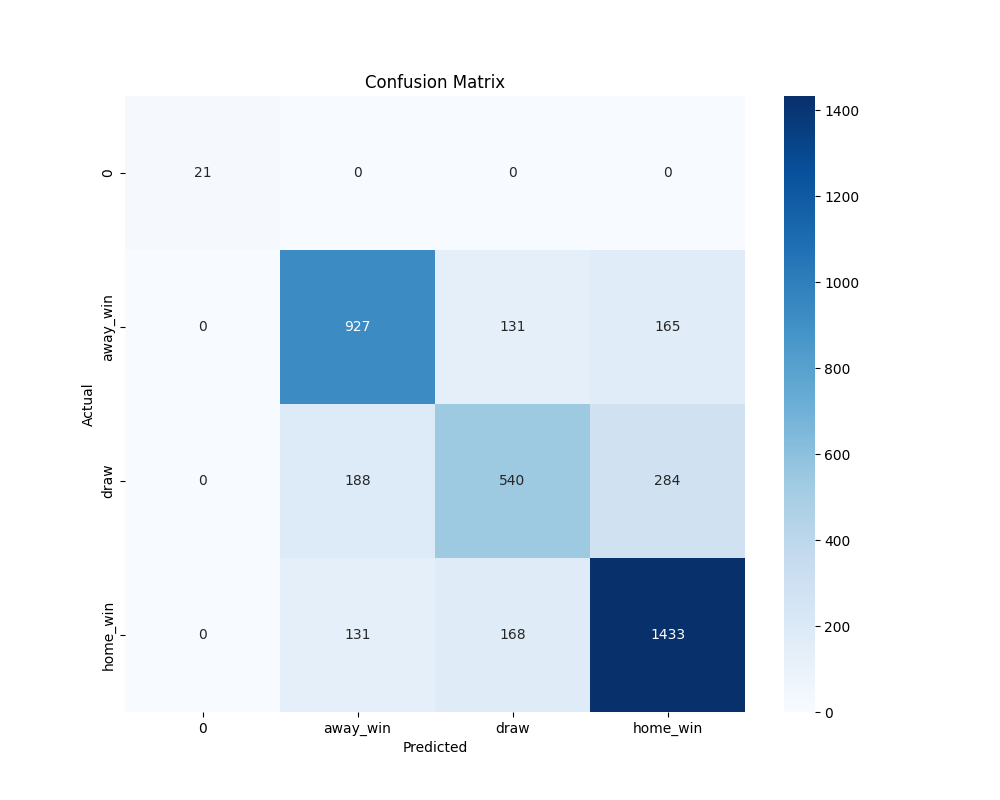
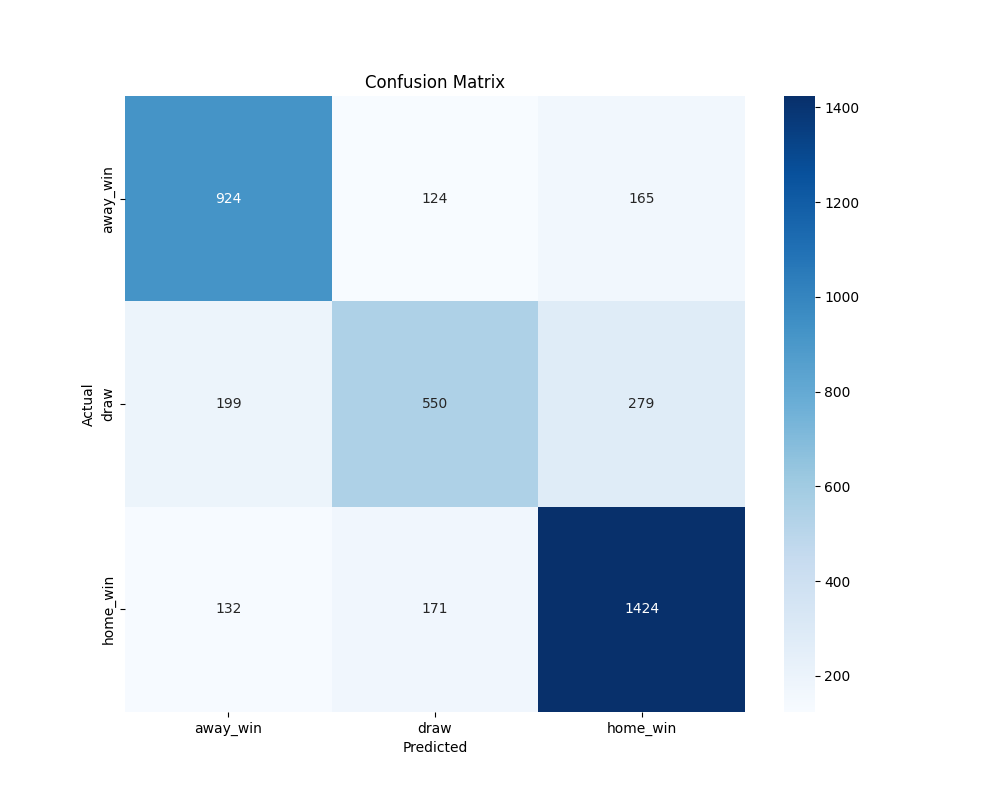
retrain for score prediction

diff --git a/train_enhance.py b/train_enhance.py
@@ -62,19 +62,26 @@ def engineer_features(df):
 
 df = engineer_features(df)
 
+# Handle NaN values in the target variables
+df = df.dropna(subset=['home_goals', 'away_goals'])
+
 # Prepare features and target
 features = ['home_team_strength', 'away_team_strength', 'home_team_defense', 'away_team_defense',
             'home_xG', 'away_xG', 'xG_difference', 'home_form', 'away_form',
             'h2h_home_win_rate', 'h2h_away_win_rate', 'h2h_draw_rate']
 X = df[features]
-y = df['result']
+y_result = df['result']
+y_home_goals = df['home_goals']
+y_away_goals = df['away_goals']
 
-# Encode the target variable
+# Encode the target variable for result prediction
 le = LabelEncoder()
-y_encoded = le.fit_transform(y)
+y_result_encoded = le.fit_transform(y_result)
 
 # Split the data
-X_train, X_test, y_train, y_test = train_test_split(X, y_encoded, test_size=0.2, random_state=42)
+X_train, X_test, y_result_train, y_result_test = train_test_split(X, y_result_encoded, test_size=0.2, random_state=42)
+_, _, y_home_goals_train, y_home_goals_test = train_test_split(X, y_home_goals, test_size=0.2, random_state=42)
+_, _, y_away_goals_train, y_away_goals_test = train_test_split(X, y_away_goals, test_size=0.2, random_state=42)
 
 # Create a pipeline with imputer, scaler, feature selection, and model
 def create_pipeline(model):
@@ -128,28 +135,28 @@ best_models = {}
 for name, (pipeline, params) in models.items():
     print(f"Tuning {name}...")
     random_search = RandomizedSearchCV(pipeline, params, n_iter=50, cv=5, n_jobs=-1, verbose=1, random_state=42)
-    random_search.fit(X_train, y_train)
+    random_search.fit(X_train, y_result_train)
     best_models[name] = random_search.best_estimator_
     print(f"Best parameters for {name}: {random_search.best_params_}")
     print(f"Best score for {name}: {random_search.best_score_}")
 
-# Create ensemble model
+# Create ensemble model for result prediction
 ensemble = VotingClassifier(
     estimators=[(name, model) for name, model in best_models.items()],
     voting='soft'
 )
 
-# Train and evaluate the ensemble model
-ensemble.fit(X_train, y_train)
-y_pred = ensemble.predict(X_test)
-accuracy = accuracy_score(y_test, y_pred)
+# Train and evaluate the ensemble model for result prediction
+ensemble.fit(X_train, y_result_train)
+y_result_pred = ensemble.predict(X_test)
+result_accuracy = accuracy_score(y_result_test, y_result_pred)
 print("\nEnsemble Model Results:")
-print(f"Accuracy: {accuracy:.4f}")
+print(f"Accuracy: {result_accuracy:.4f}")
 print("Classification Report:")
-print(classification_report(y_test, y_pred, target_names=le.classes_))
+print(classification_report(y_result_test, y_result_pred, target_names=le.classes_))
 
 # Confusion Matrix
-cm = confusion_matrix(y_test, y_pred)
+cm = confusion_matrix(y_result_test, y_result_pred)
 plt.figure(figsize=(10, 8))
 sns.heatmap(cm, annot=True, fmt='d', cmap='Blues', xticklabels=le.classes_, yticklabels=le.classes_)
 plt.title('Confusion Matrix')
@@ -158,78 +165,27 @@ plt.ylabel('Actual')
 plt.savefig('confusion_matrix.png')
 plt.close()
 
-# Save the ensemble model and label encoder
+# Train models for score prediction
+score_models = {
+    'home_goals': RandomForestClassifier(n_estimators=100, random_state=42),
+    'away_goals': RandomForestClassifier(n_estimators=100, random_state=42)
+}
+
+score_models['home_goals'].fit(X_train, y_home_goals_train)
+score_models['away_goals'].fit(X_train, y_away_goals_train)
+
+# Evaluate score prediction models
+y_home_goals_pred = score_models['home_goals'].predict(X_test)
+y_away_goals_pred = score_models['away_goals'].predict(X_test)
+home_goals_mae = np.mean(np.abs(y_home_goals_test - y_home_goals_pred))
+away_goals_mae = np.mean(np.abs(y_away_goals_test - y_away_goals_pred))
+print(f"\nHome Goals Prediction MAE: {home_goals_mae:.4f}")
+print(f"Away Goals Prediction MAE: {away_goals_mae:.4f}")
+
+# Save the ensemble model, label encoder, and score models
 joblib.dump(ensemble, 'football_prediction_ensemble.joblib')
 joblib.dump(le, 'label_encoder.joblib')
+joblib.dump(score_models['home_goals'], 'home_goals_model.joblib')
+joblib.dump(score_models['away_goals'], 'away_goals_model.joblib')
 
-print("\nEnsemble model and label encoder saved.")
-
-# Optional: If you want to save individual models as well
-for name, model in best_models.items():
-    joblib.dump(model, f'football_prediction_{name.lower()}.joblib')
-    print(f"{name} model saved.")
-
-# Feature importance analysis
-rf_model = best_models['RandomForest']
-feature_selector = rf_model.named_steps['feature_selection']
-selected_feature_indices = feature_selector.get_support(indices=True)
-selected_features = [features[i] for i in selected_feature_indices]
-
-feature_importance = pd.DataFrame({
-    'feature': selected_features,
-    'importance': rf_model.named_steps['model'].feature_importances_
-}).sort_values('importance', ascending=False)
-
-print("\nFeature Importance:")
-print(feature_importance)
-
-# Plot feature importance
-plt.figure(figsize=(10, 6))
-feature_importance.plot(x='feature', y='importance', kind='bar')
-plt.title('Feature Importance')
-plt.xlabel('Features')
-plt.ylabel('Importance')
-plt.tight_layout()
-plt.savefig('feature_importance.png')
-plt.close()
-
-print("\nFeature importance plot saved as 'feature_importance.png'")
-
-# Learning curves
-from sklearn.model_selection import learning_curve
-
-def plot_learning_curve(estimator, title, X, y, ylim=None, cv=None,
-                        n_jobs=None, train_sizes=np.linspace(.1, 1.0, 5)):
-    plt.figure()
-    plt.title(title)
-    if ylim is not None:
-        plt.ylim(*ylim)
-    plt.xlabel("Training examples")
-    plt.ylabel("Score")
-    train_sizes, train_scores, test_scores = learning_curve(
-        estimator, X, y, cv=cv, n_jobs=n_jobs, train_sizes=train_sizes)
-    train_scores_mean = np.mean(train_scores, axis=1)
-    train_scores_std = np.std(train_scores, axis=1)
-    test_scores_mean = np.mean(test_scores, axis=1)
-    test_scores_std = np.std(test_scores, axis=1)
-    plt.grid()
-
-    plt.fill_between(train_sizes, train_scores_mean - train_scores_std,
-                     train_scores_mean + train_scores_std, alpha=0.1,
-                     color="r")
-    plt.fill_between(train_sizes, test_scores_mean - test_scores_std,
-                     test_scores_mean + test_scores_std, alpha=0.1, color="g")
-    plt.plot(train_sizes, train_scores_mean, 'o-', color="r",
-             label="Training score")
-    plt.plot(train_sizes, test_scores_mean, 'o-', color="g",
-             label="Cross-validation score")
-
-    plt.legend(loc="best")
-    return plt
-
-# Plot learning curve for the ensemble model
-plot_learning_curve(ensemble, "Learning Curve for Ensemble Model", X, y_encoded, ylim=(0.1, 1.01), cv=5, n_jobs=-1)
-plt.savefig('learning_curve.png')
-plt.close()
-
-print("\nLearning curve plot saved as 'learning_curve.png'")
+print("\nEnsemble model, label encoder, and score prediction models saved.")

diff --git a/app.py b/app.py
@@ -4,14 +4,14 @@ import pandas as pd
 import numpy as np
 from functools import lru_cache
 from datetime import datetime
-import random  # Add this import
 
 app = Flask(__name__)
 
-# Load the trained ensemble model and label encoder
+# Load the trained ensemble model, label encoder, and score prediction models
 ensemble_model = joblib.load('football_prediction_ensemble.joblib')
 le = joblib.load('label_encoder.joblib')
-
+home_goals_model = joblib.load('home_goals_model.joblib')
+away_goals_model = joblib.load('away_goals_model.joblib')
 
 # Load team strength data and other necessary data
 df = pd.read_csv('football_match_data.csv')
@@ -44,10 +44,7 @@ def get_h2h_history(home_team, away_team, n=5):
     matches = df[(df['home_team'] == home_team) & (df['away_team'] == away_team) |
                  (df['home_team'] == away_team) & (df['away_team'] == home_team)]
     
-    # Sort by date and remove duplicates
     matches = matches.sort_values('date', ascending=False).drop_duplicates(subset=['date', 'home_team', 'away_team'])
-    
-    # Take the most recent n matches
     matches = matches.head(n)
     
     history = []
@@ -104,28 +101,6 @@ def get_team_last_matches(team, n=5):
             })
     return history
 
-def estimate_score(prediction, probabilities):
-    if prediction == 'home_win':
-        home_score = random.randint(1, 3)
-        away_score = random.randint(0, home_score - 1)
-    elif prediction == 'away_win':
-        away_score = random.randint(1, 3)
-        home_score = random.randint(0, away_score - 1)
-    else:  # draw
-        home_score = away_score = random.randint(0, 2)
-    
-    # Adjust scores based on probabilities
-    if probabilities[prediction] > 0.7:  # High confidence
-        if prediction != 'draw':
-            winning_score = max(home_score, away_score)
-            winning_score += random.randint(0, 2)
-            if prediction == 'home_win':
-                home_score = winning_score
-            else:
-                away_score = winning_score
-    
-    return f"{home_score}-{away_score}"
-
 @app.route('/')
 def home():
     return render_template('index.html')
@@ -146,27 +121,23 @@ def predict():
         home_team_defense = home_defense.get(home_team, np.mean(list(home_defense.values())))
         away_team_defense = away_defense.get(away_team, np.mean(list(away_defense.values())))
         
-        # Use average xG values
         avg_home_xG = df[df['home_team'] == home_team]['home_xG'].mean()
         avg_away_xG = df[df['away_team'] == away_team]['away_xG'].mean()
         
         xG_difference = avg_home_xG - avg_away_xG
         
-        # Get head-to-head stats
         h2h = h2h_stats.get((home_team, away_team), {
             'h2h_home_win_rate': 0.5,
             'h2h_away_win_rate': 0.5,
             'h2h_draw_rate': 0.5
         })
         
-        # Calculate form
         home_matches = df[df['home_team'] == home_team].tail(5)
         away_matches = df[df['away_team'] == away_team].tail(5)
         
         home_form = (home_matches['home_goals'] - home_matches['away_goals']).mean()
         away_form = (away_matches['away_goals'] - away_matches['home_goals']).mean()
         
-        # Prepare the input data
         input_data = pd.DataFrame({
             'home_team_strength': [home_team_strength],
             'away_team_strength': [away_team_strength],
@@ -182,20 +153,19 @@ def predict():
             'h2h_draw_rate': [h2h['h2h_draw_rate']]
         })
         
-        # Make prediction
         prediction_encoded = ensemble_model.predict(input_data)
         prediction = le.inverse_transform(prediction_encoded)[0]
         
         probabilities = ensemble_model.predict_proba(input_data)[0]
         probability_dict = {le.classes_[i]: float(prob) * 100 for i, prob in enumerate(probabilities)}
 
-         # Estimate score
-        estimated_score = estimate_score(prediction, {k: v/100 for k, v in probability_dict.items()})
+        # Predict scores
+        home_goals_pred = home_goals_model.predict(input_data)[0]
+        away_goals_pred = away_goals_model.predict(input_data)[0]
 
-        # Get head-to-head history
+        estimated_score = f"{home_goals_pred}-{away_goals_pred}"
+
         h2h_history = get_h2h_history(home_team, away_team)
-        
-        # Get last 5 matches for each team
         home_team_last_matches = get_team_last_matches(home_team)
         away_team_last_matches = get_team_last_matches(away_team)
         

diff --git a/Accuracy_training_update.md b/Accuracy_training_update.md
@@ -1,0 +1,96 @@
+# Football Match Prediction
+
+This project aims to predict the outcome and scores of football matches using machine learning models. The application utilizes an ensemble of multiple classifiers and is capable of predicting both match outcomes and exact scores for home and away teams.
+
+## Features
+
+- Predicts match outcomes (home win, away win, draw)
+- Predicts exact scores for home and away teams
+- Displays probabilities of each possible outcome
+- Provides head-to-head history between selected teams
+- Shows recent match history for both home and away teams
+
+## Model Performance
+
+### Accuracy
+
+- **Overall Accuracy**: 73.03%
+
+### F1-Scores
+
+- **Home Wins**: 79%
+- **Away Wins**: 75%
+- **Draws**: 59%
+
+### Classification Report
+
+| Outcome          | Precision | Recall | F1-Score | Support |
+| ---------------- | --------- | ------ | -------- | ------- |
+| Away Win         | 74%       | 76%    | 75%      | 1213    |
+| Draw             | 65%       | 54%    | 59%      | 1028    |
+| Home Win         | 76%       | 82%    | 79%      | 1727    |
+| **Macro Avg**    | 72%       | 71%    | 71%      | 3968    |
+| **Weighted Avg** | 73%       | 73%    | 73%      | 3968    |
+
+### Mean Absolute Error (MAE) for Score Predictions
+
+- **Home Goals Prediction MAE**: 0.6316
+- **Away Goals Prediction MAE**: 0.5565
+
+### Confusion Matrix
+
+- **Away Win**:
+  - True: 1213
+  - Predicted correctly: 925
+- **Draw**:
+  - True: 1028
+  - Predicted correctly: 549
+- **Home Win**:
+  - True: 1727
+  - Predicted correctly: 1425
+
+## Model Components
+
+### Ensemble Model
+
+The ensemble model combines multiple machine learning algorithms:
+
+- Random Forest Classifier
+- XGBoost Classifier
+- Gradient Boosting Classifier
+- Support Vector Machine (SVM) Classifier
+
+### Voting Mechanism
+
+- Uses "soft" voting: averages the predicted probabilities from each model and selects the class with the highest average probability as the final prediction.
+
+### Feature Processing
+
+- **Imputation**: Filling in missing values using the mean of the column.
+- **Scaling**: Standardizing the features so they are on the same scale.
+- **Feature Selection**: Using a Random Forest to select the most important features.
+
+### Key Features
+
+- Team strengths (offensive and defensive)
+- Expected goals (xG) for home and away teams
+- Head-to-head statistics
+- Recent form of both teams
+
+## Flask API
+
+The Flask API provides endpoints for making predictions and fetching team lists:
+
+### Endpoints
+
+- `/`: Renders the homepage.
+- `/predict`: Accepts POST requests with `home_team` and `away_team` to predict match outcomes and scores.
+- `/teams`: Returns a list of unique teams.
+
+### Usage
+
+1. Run the Flask app:
+
+   ```sh
+   python app.py
+   ```
